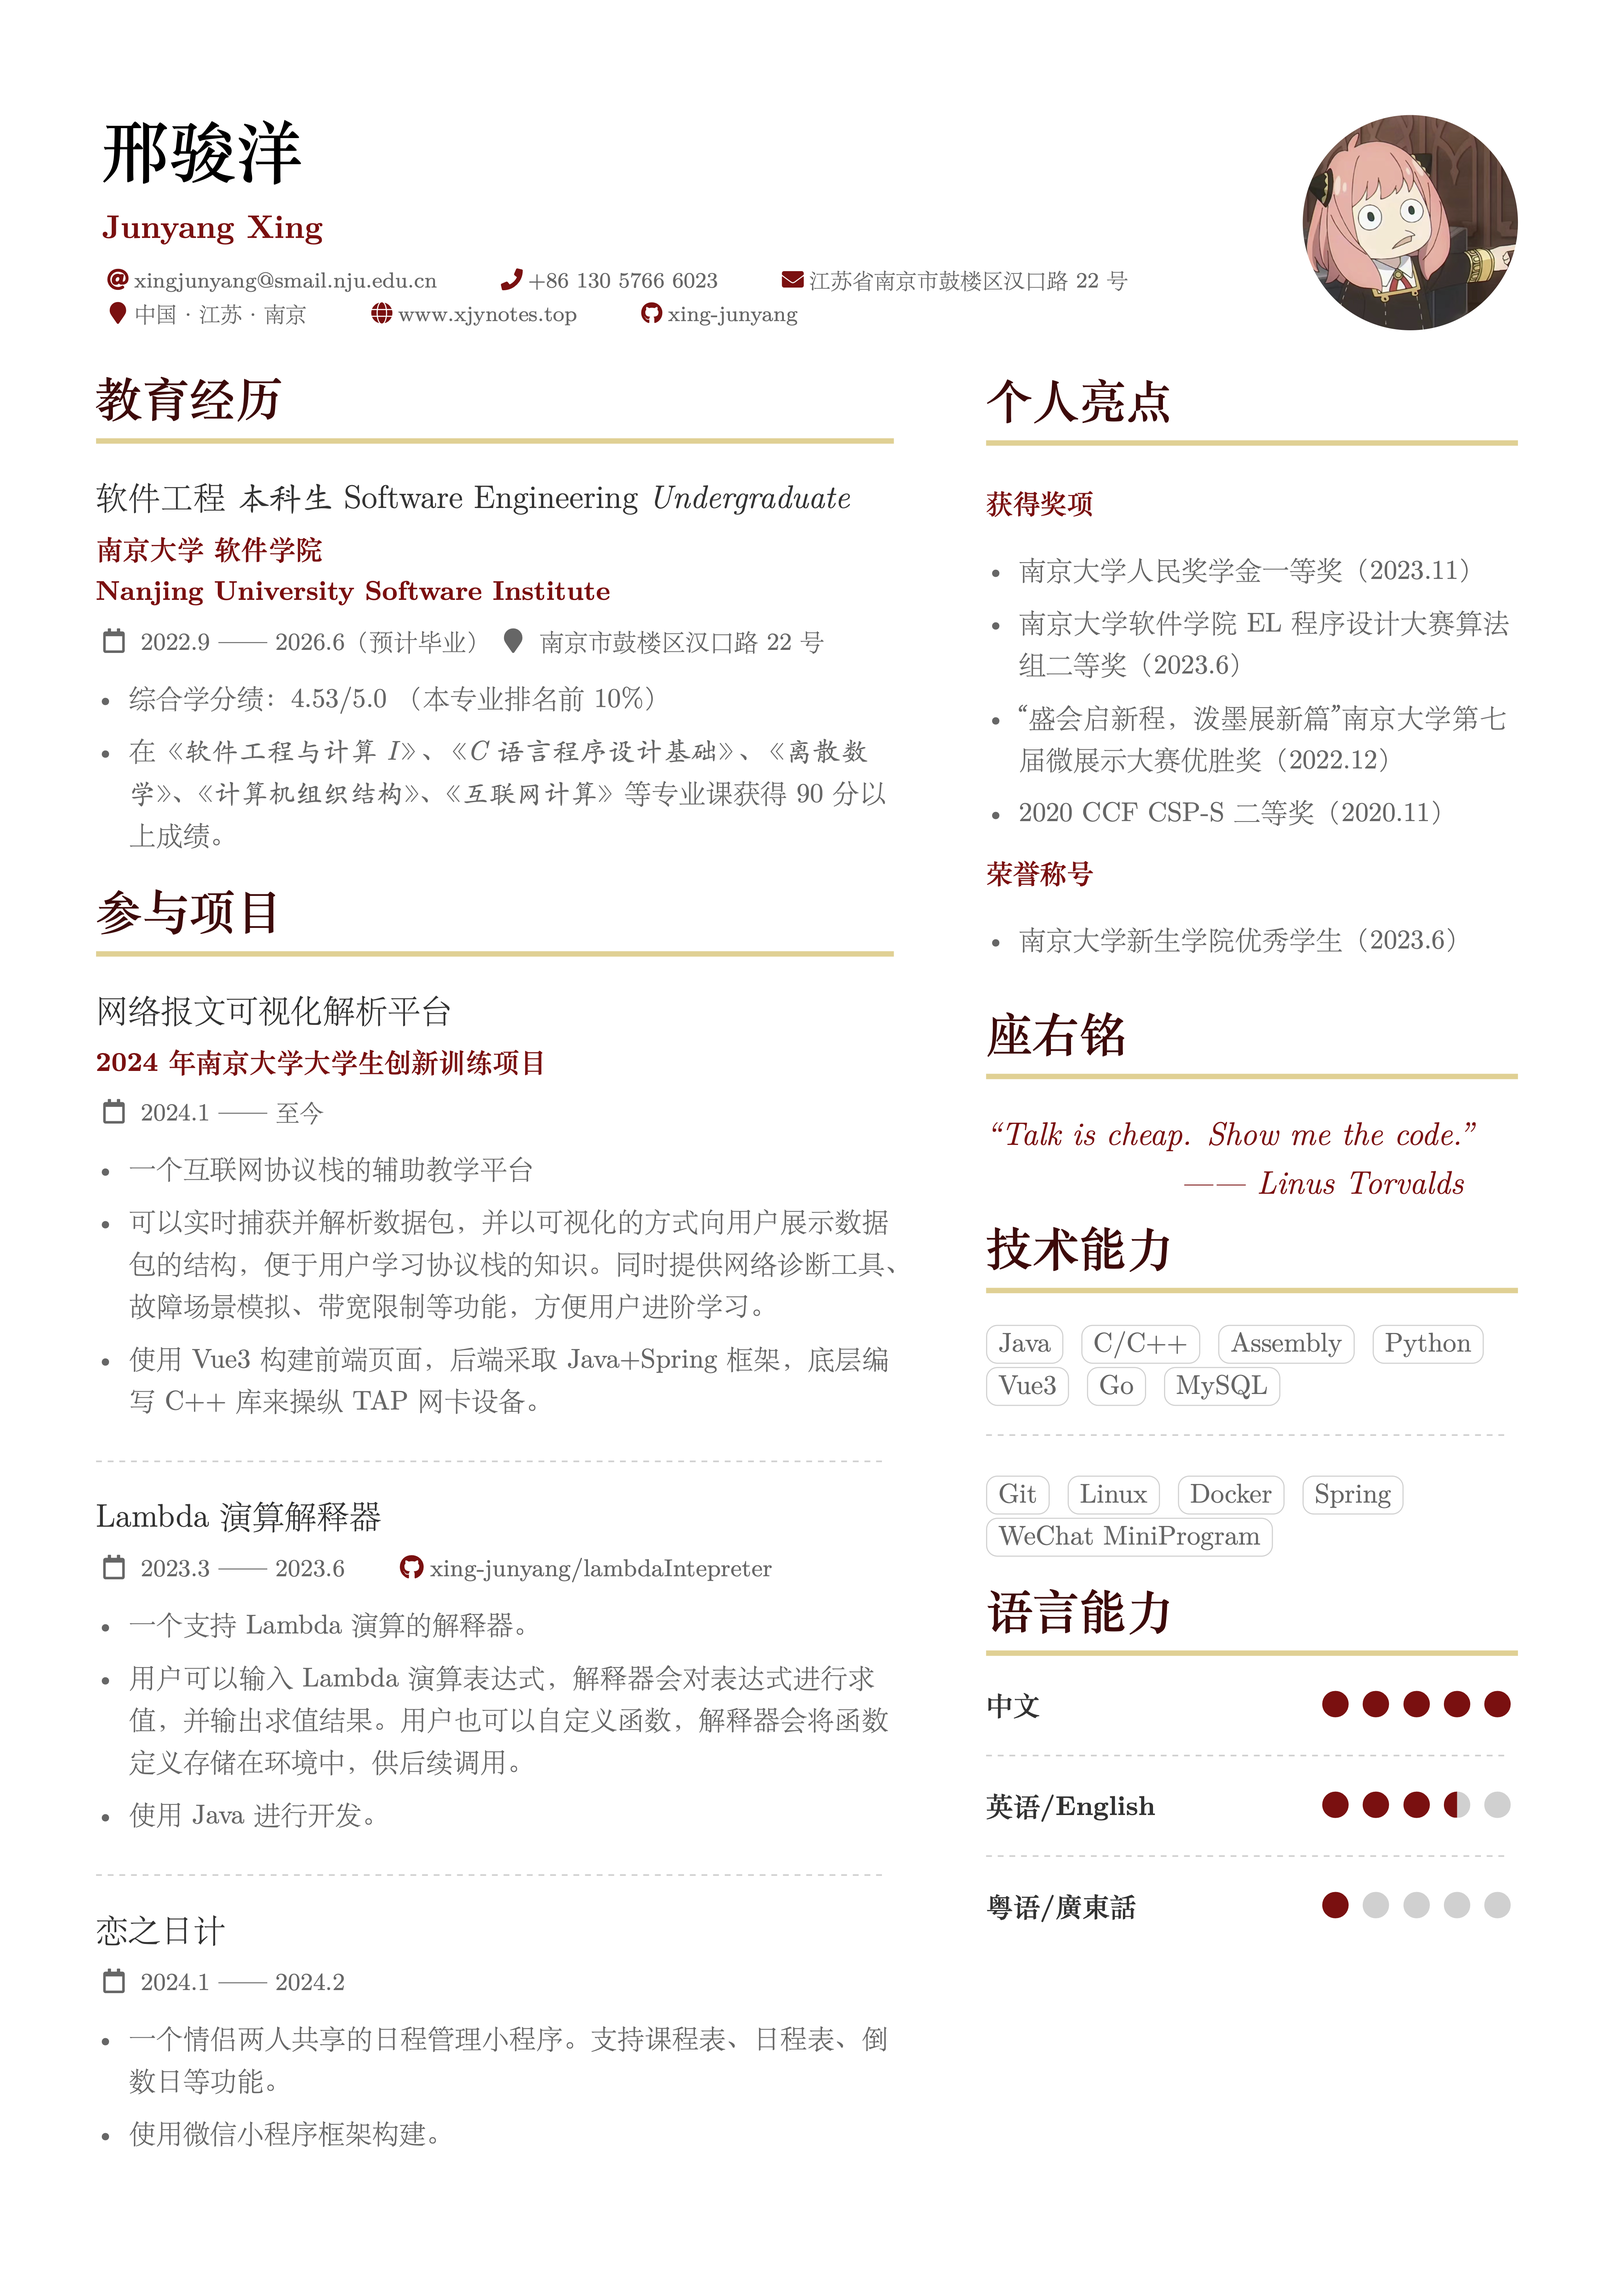
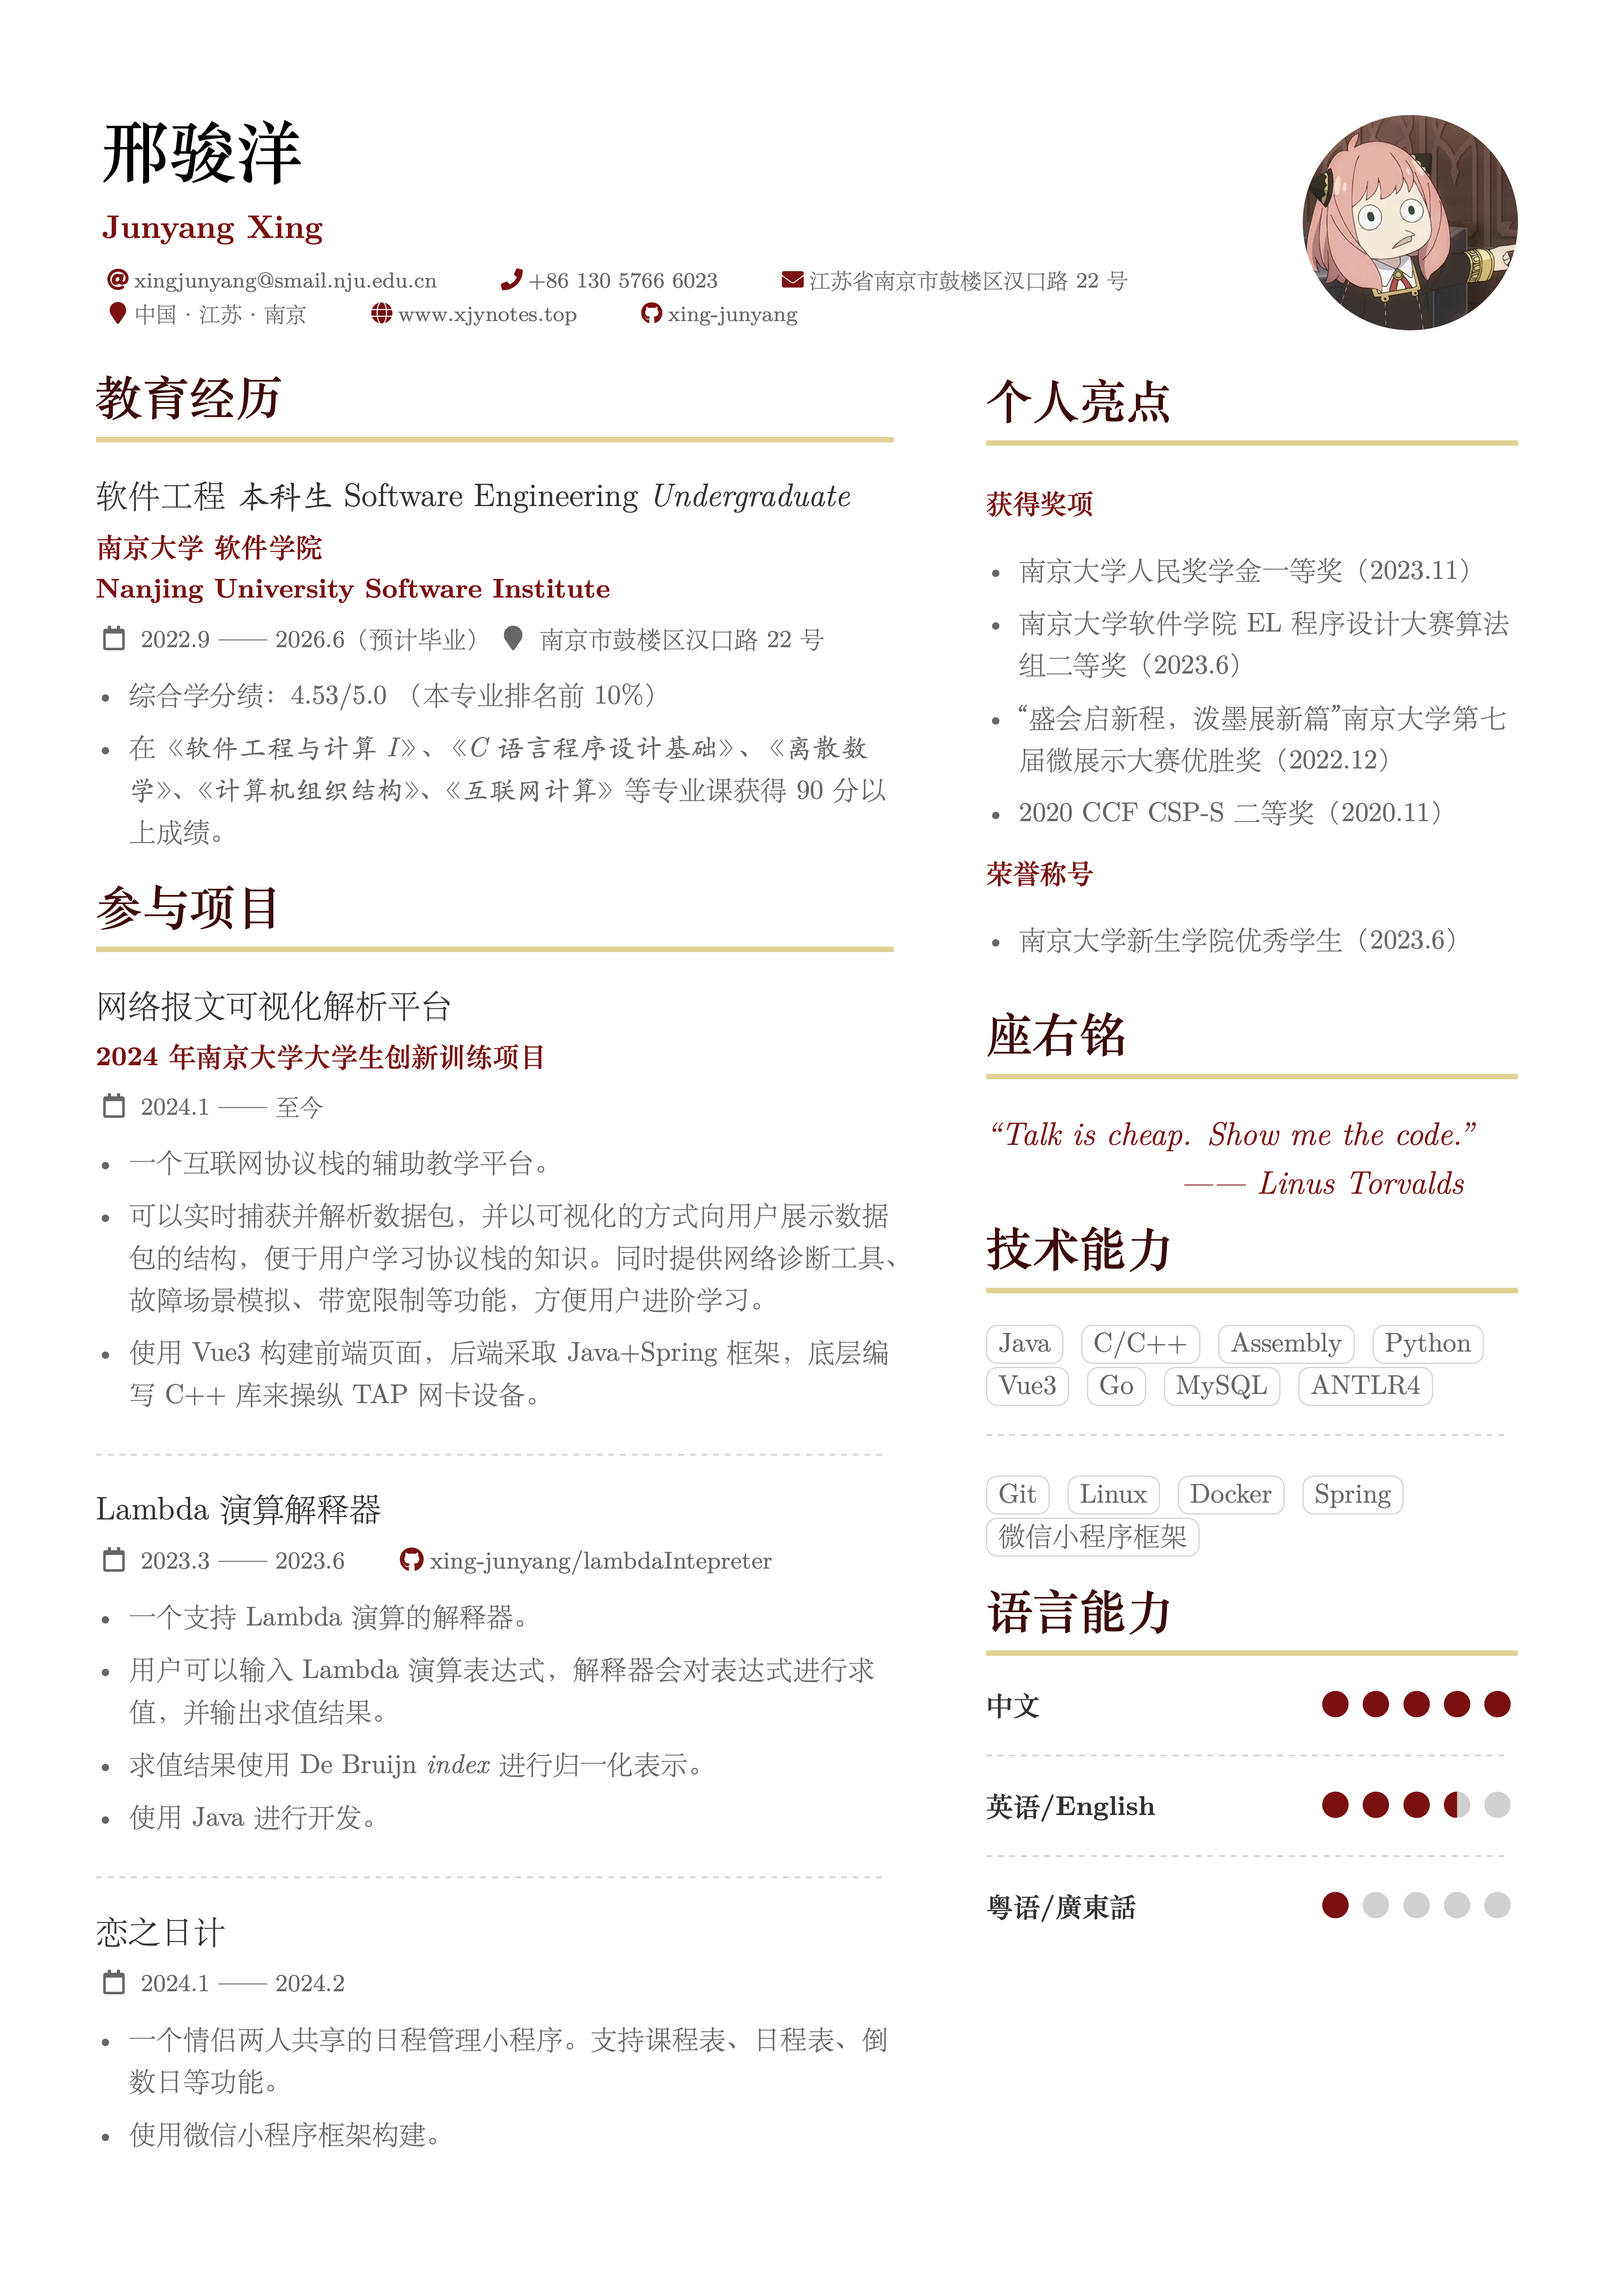
feat: Updated project description

diff --git a/sample.tex b/sample.tex
@@ -125,7 +125,7 @@
 \begin{paracol}{2}
 \cvsection{教育经历}
 
-\cvevent{软件工程~\emph{本科生}~Software Engineering \emph{Undergraduate}}{南京大学~软件学院 \\Nanjing University Software Institute}{2022.9 ——~2026.6（预计毕业）}{南京市鼓楼区汉口路22号}
+\cvevent{软件工程~\emph{本科生}~Software Engineering \emph{Undergraduate}}{\href{http://software.nju.edu.cn}{南京大学~软件学院 \\Nanjing University Software Institute}}{2022.9 ——~2026.6（预计毕业）}{南京市鼓楼区汉口路22号}
 \begin{itemize}
 \item 综合学分绩：4.53/5.0~（本专业排名前~10\%）
 \item 在《\emph{软件工程与计算I}》、《\emph{C语言程序设计基础}》、《\emph{离散数学}》、《\emph{计算机组织结构}》、《\emph{互联网计算}》等专业课获得90分以上成绩。
@@ -136,7 +136,7 @@
 \cvevent{网络报文可视化解析平台}{2024年南京大学大学生创新训练项目}{2024.1 ——~至今}{}
 
 \begin{itemize}
-\item 一个互联网协议栈的辅助教学平台
+\item 一个互联网协议栈的辅助教学平台。
 \item 可以实时捕获并解析数据包，并以可视化的方式向用户展示数据包的结构，便于用户学习协议栈的知识。同时提供网络诊断工具、故障场景模拟、带宽限制等功能，方便用户进阶学习。
 \item 使用Vue3构建前端页面，后端采取Java+Spring框架，底层编写C++库来操纵TAP网卡设备。
 
@@ -147,7 +147,8 @@
 \cvevent{Lambda 演算解释器}{}{2023.3 ——~2023.6\quad\quad\github{xing-junyang/lambdaIntepreter}}{}
 \begin{itemize}
   \item 一个支持Lambda演算的解释器。
-  \item 用户可以输入Lambda演算表达式，解释器会对表达式进行求值，并输出求值结果。用户也可以自定义函数，解释器会将函数定义存储在环境中，供后续调用。
+  \item 用户可以输入Lambda演算表达式，解释器会对表达式进行求值，并输出求值结果。
+  \item 求值结果使用De Bruijn \emph{index}进行归一化表示。
   \item 使用Java进行开发。
 \end{itemize}
 
@@ -200,6 +201,7 @@
 \cvtag{Vue3}
 \cvtag{Go}
 \cvtag{MySQL}
+\cvtag{ANTLR4}
 
 \divider\smallskip
 
@@ -207,7 +209,7 @@
 \cvtag{Linux}
 \cvtag{Docker}
 \cvtag{Spring}\\
-\cvtag{WeChat MiniProgram}
+\cvtag{微信小程序框架}
 
 
 \cvsection{语言能力}
